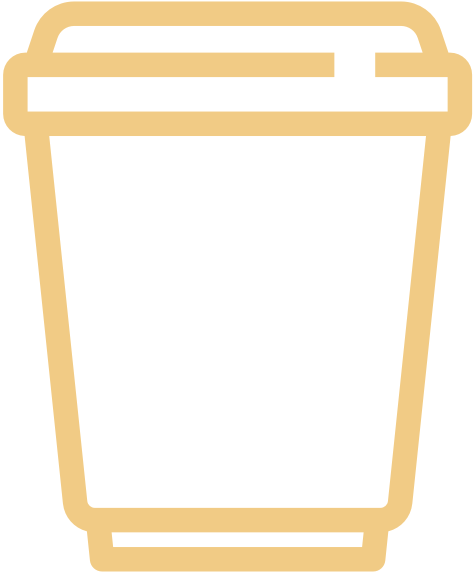
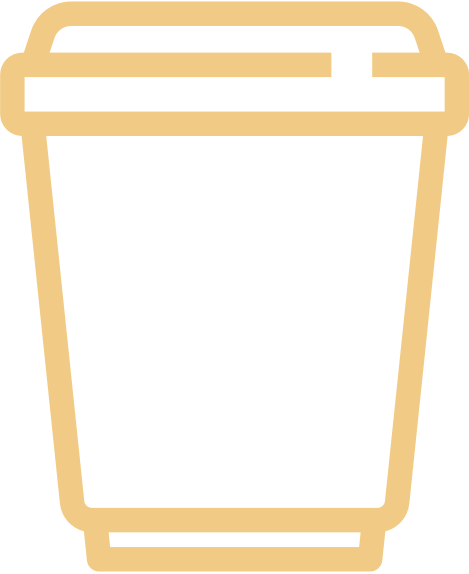
Basic coffee station screen

diff --git a/src/components/coffee-station/coffee-tile.js b/src/components/coffee-station/coffee-tile.js
@@ -1,0 +1,84 @@
+import React from 'react';
+import { TouchableNativeFeedback } from 'react-native';
+import { View, Text, Image } from 'react-native';
+
+import Cup from './cup';
+
+import regularSource from '../../img/regular.png';
+import hazelnutSource from '../../img/hazelnut.png';
+
+import colors from '../../colors';
+
+const selectImage = type => {
+	switch (type) {
+		case 'hazelnut':
+			return hazelnutSource;
+
+		default:
+			return regularSource;
+	}
+};
+
+const CoffeeTile = props => {
+	const {
+		tileContainerStyle,
+		detailContainerStyle,
+		cupContainerStyle,
+		textStyle,
+		iconStyle,
+	} = styles;
+
+	const { cream, sugar, type } = props.pref;
+
+	return (
+		<TouchableNativeFeedback onPress={() => console.log(props.pref)}>
+			<View style={tileContainerStyle}>
+				<View style={cupContainerStyle}>
+					<Cup height={100} cream={cream} />
+				</View>
+				<View style={detailContainerStyle}>
+					<Image
+						source={selectImage(type)}
+						style={iconStyle}
+						resizeMode="contain"
+					/>
+					<Text style={textStyle}>{cream}%</Text>
+					<Text style={textStyle}>{sugar}g</Text>
+				</View>
+			</View>
+		</TouchableNativeFeedback>
+	);
+};
+
+const styles = {
+	tileContainerStyle: {
+		backgroundColor: colors.red,
+		borderColor: colors.primary,
+		borderWidth: 0.5,
+		aspectRatio: 1,
+		flexDirection: 'row',
+		justifyContent: 'center',
+		alignItems: 'center',
+		width: '50%',
+	},
+	cupContainerStyle: {
+		flex: 1,
+		alignItems: 'flex-end',
+	},
+	detailContainerStyle: {
+		flex: 1,
+		justifyContent: 'space-between',
+		alignItems: 'center',
+	},
+	textStyle: {
+		fontSize: 20,
+		color: colors.yellow,
+	},
+	iconStyle: {
+		height: 30,
+		width: 30,
+		marginBottom: 5,
+	},
+};
+
+export default CoffeeTile;

diff --git a/src/components/coffee-station/cup.js b/src/components/coffee-station/cup.js
@@ -1,31 +1,36 @@
-import React, { Component } from 'react';
+import React from 'react';
 import { View, Image } from 'react-native';
 
 import cupSource from '../../img/cup.png';
 
 import colors from '../../colors';
 
-class Cup extends Component {
-	render() {
-		const { containerStyle, imageStyle, creamStyle } = styles;
+const Cup = props => {
+	const {
+		containerStyle,
+		imageStyle,
+		creamContainerStyle,
+		creamStyle,
+	} = styles;
 
-		return (
-			<View style={containerStyle}>
-				<Image
-					source={cupSource}
-					style={imageStyle}
-					resizeMode="contain"
-				/>
-				<View
-					style={[
-						creamStyle,
-						{ height: this.props.cream / 100 * 65 },
-					]}
-				/>
+	const cupHeight = props.height || 125;
+	const cupWidth = cupHeight * 0.8;
+
+	const creamHeight = props.cream / 100 * (cupHeight * 0.52);
+
+	return (
+		<View style={containerStyle}>
+			<Image
+				source={cupSource}
+				style={[imageStyle, { height: cupHeight, width: cupWidth }]}
+				resizeMode="contain"
+			/>
+			<View style={creamContainerStyle}>
+				<View style={[creamStyle, { height: creamHeight }]} />
 			</View>
-		);
-	}
-}
+		</View>
+	);
+};
 
 const styles = {
 	containerStyle: {
@@ -35,12 +40,19 @@ const styles = {
 		height: 125,
 		width: 100,
 	},
-	creamStyle: {
+	creamContainerStyle: {
 		position: 'absolute',
+		top: 0,
+		left: 0,
+		right: 0,
+		bottom: 0,
+		justifyContent: 'flex-end',
+		alignItems: 'center',
+	},
+	creamStyle: {
 		backgroundColor: colors.white,
-		width: 56,
-		bottom: 21,
-		left: 22,
+		width: '55%',
+		marginBottom: '20%',
 	},
 };
 

diff --git a/src/components/coffee-station/coffee-station.js b/src/components/coffee-station/coffee-station.js
@@ -1,8 +1,10 @@
 import React, { Component } from 'react';
+import { View, ScrollView } from 'react-native';
 import { connect } from 'react-redux';
-import { ScreenContainer } from '../common';
+import { ScreenContainer, LoadingScreen } from '../common';
 
 import CoffeeDetail from './coffee-detail';
+import CoffeeTile from './coffee-tile';
 
 import * as actions from '../../actions';
 
@@ -11,15 +13,38 @@ class CoffeeStation extends Component {
 		title: 'coffee station',
 	};
 
+	renderPrefs(prefs) {
+		return prefs.map((pref, index) => (
+			<CoffeeTile key={index} pref={pref} />
+		));
+	}
+
 	render() {
+		const { me } = this.props;
+
+		if (!me) return <LoadingScreen />;
+
 		return (
 			<ScreenContainer style={{ padding: 0 }}>
-				<CoffeeDetail />
+				<ScrollView>
+					<CoffeeDetail pref={me.prefs[0]} />
+					<View
+						style={{
+							flexWrap: 'wrap',
+							alignItems: 'flex-start',
+							flexDirection: 'row',
+						}}
+					>
+						{this.renderPrefs(me.prefs.slice(1))}
+					</View>
+				</ScrollView>
 			</ScreenContainer>
 		);
 	}
 }
 
-const mapStateToProps = state => ({});
+const mapStateToProps = state => ({
+	me: state.me,
+});
 
 export default connect(mapStateToProps, actions)(CoffeeStation);

diff --git a/src/components/coffee-station/coffee-detail.js b/src/components/coffee-station/coffee-detail.js
@@ -15,17 +15,19 @@ const CoffeeDetail = props => {
 		detailText,
 	} = styles;
 
+	const { type, cream, sugar } = props.pref;
+
 	return (
 		<View style={mainContainer}>
 			<Text style={headerText}>default coffee</Text>
 			<View style={detailContainer}>
 				<View style={cupContainer}>
-					<Cup cream={20} />
+					<Cup cream={cream} />
 				</View>
 				<View style={detailContent}>
-					<Text style={detailText}>flavor: hazelnut</Text>
-					<Text style={detailText}>cream: 20%</Text>
-					<Text style={detailText}>sugar: 1g</Text>
+					<Text style={detailText}>flavor: {type}</Text>
+					<Text style={detailText}>cream: {cream}%</Text>
+					<Text style={detailText}>sugar: {sugar}g</Text>
 				</View>
 			</View>
 			<Text style={[detailText, { textAlign: 'center' }]}>

diff --git a/src/actions/index.js b/src/actions/index.js
@@ -46,11 +46,11 @@ export const loginUser = user => {
 	};
 };
 
-export const fetchMe = user => {
+export const fetchMe = () => {
 	return dispatch => {
 		return new Promise((resolve, reject) => {
 			axios
-				.get(`${API_URL}/users/me`, user)
+				.get(`${API_URL}/users/me`)
 				.then(res => {
 					dispatch({ type: types.FETCH_ME, payload: res.data });
 					resolve(res.data);

diff --git a/src/components/app.js b/src/components/app.js
@@ -15,6 +15,7 @@ class App extends Component {
 			const { token } = JSON.parse(value);
 
 			this.props.authUser(token);
+			this.props.fetchMe().catch(() => this.props.logoutUser());
 		});
 	}
 
